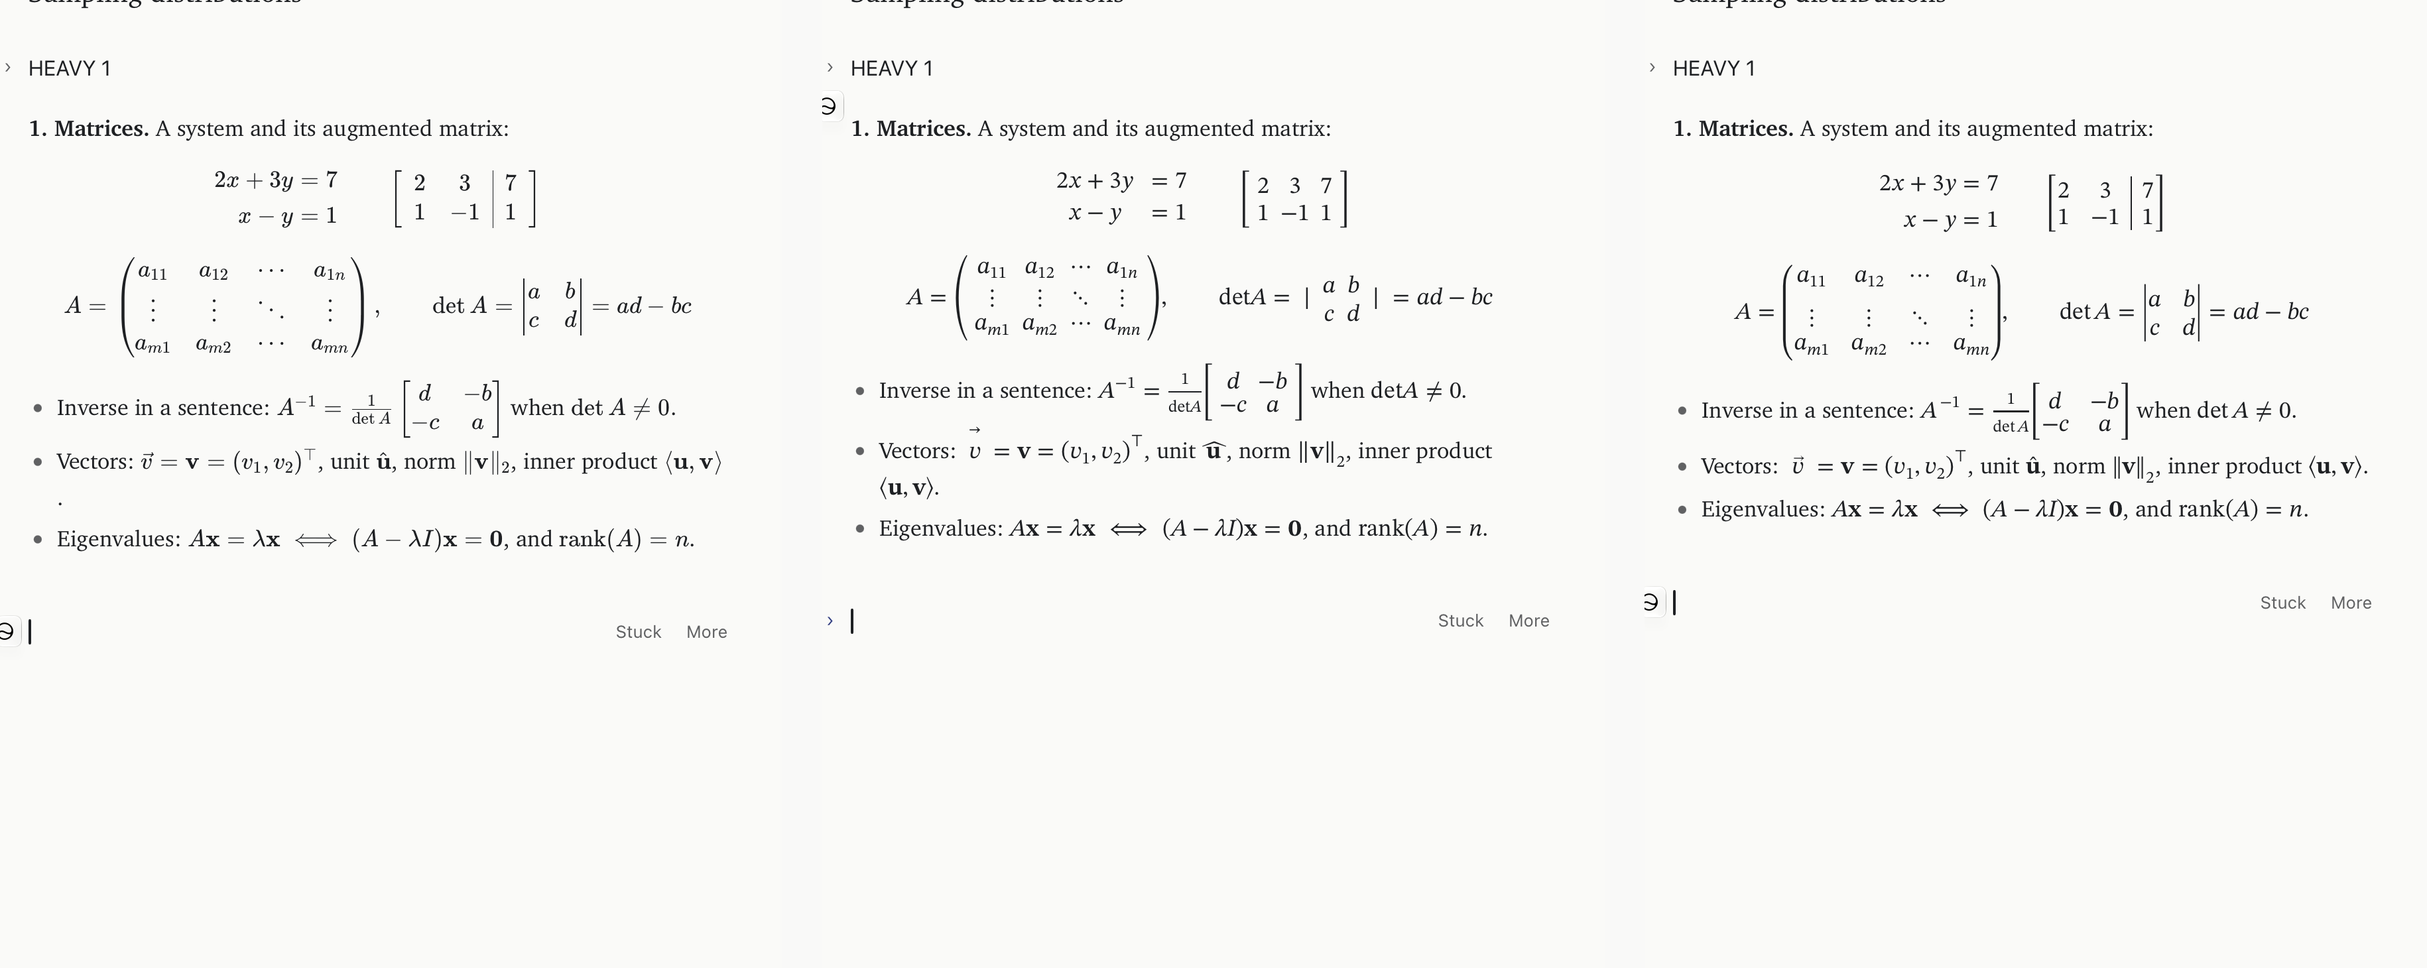
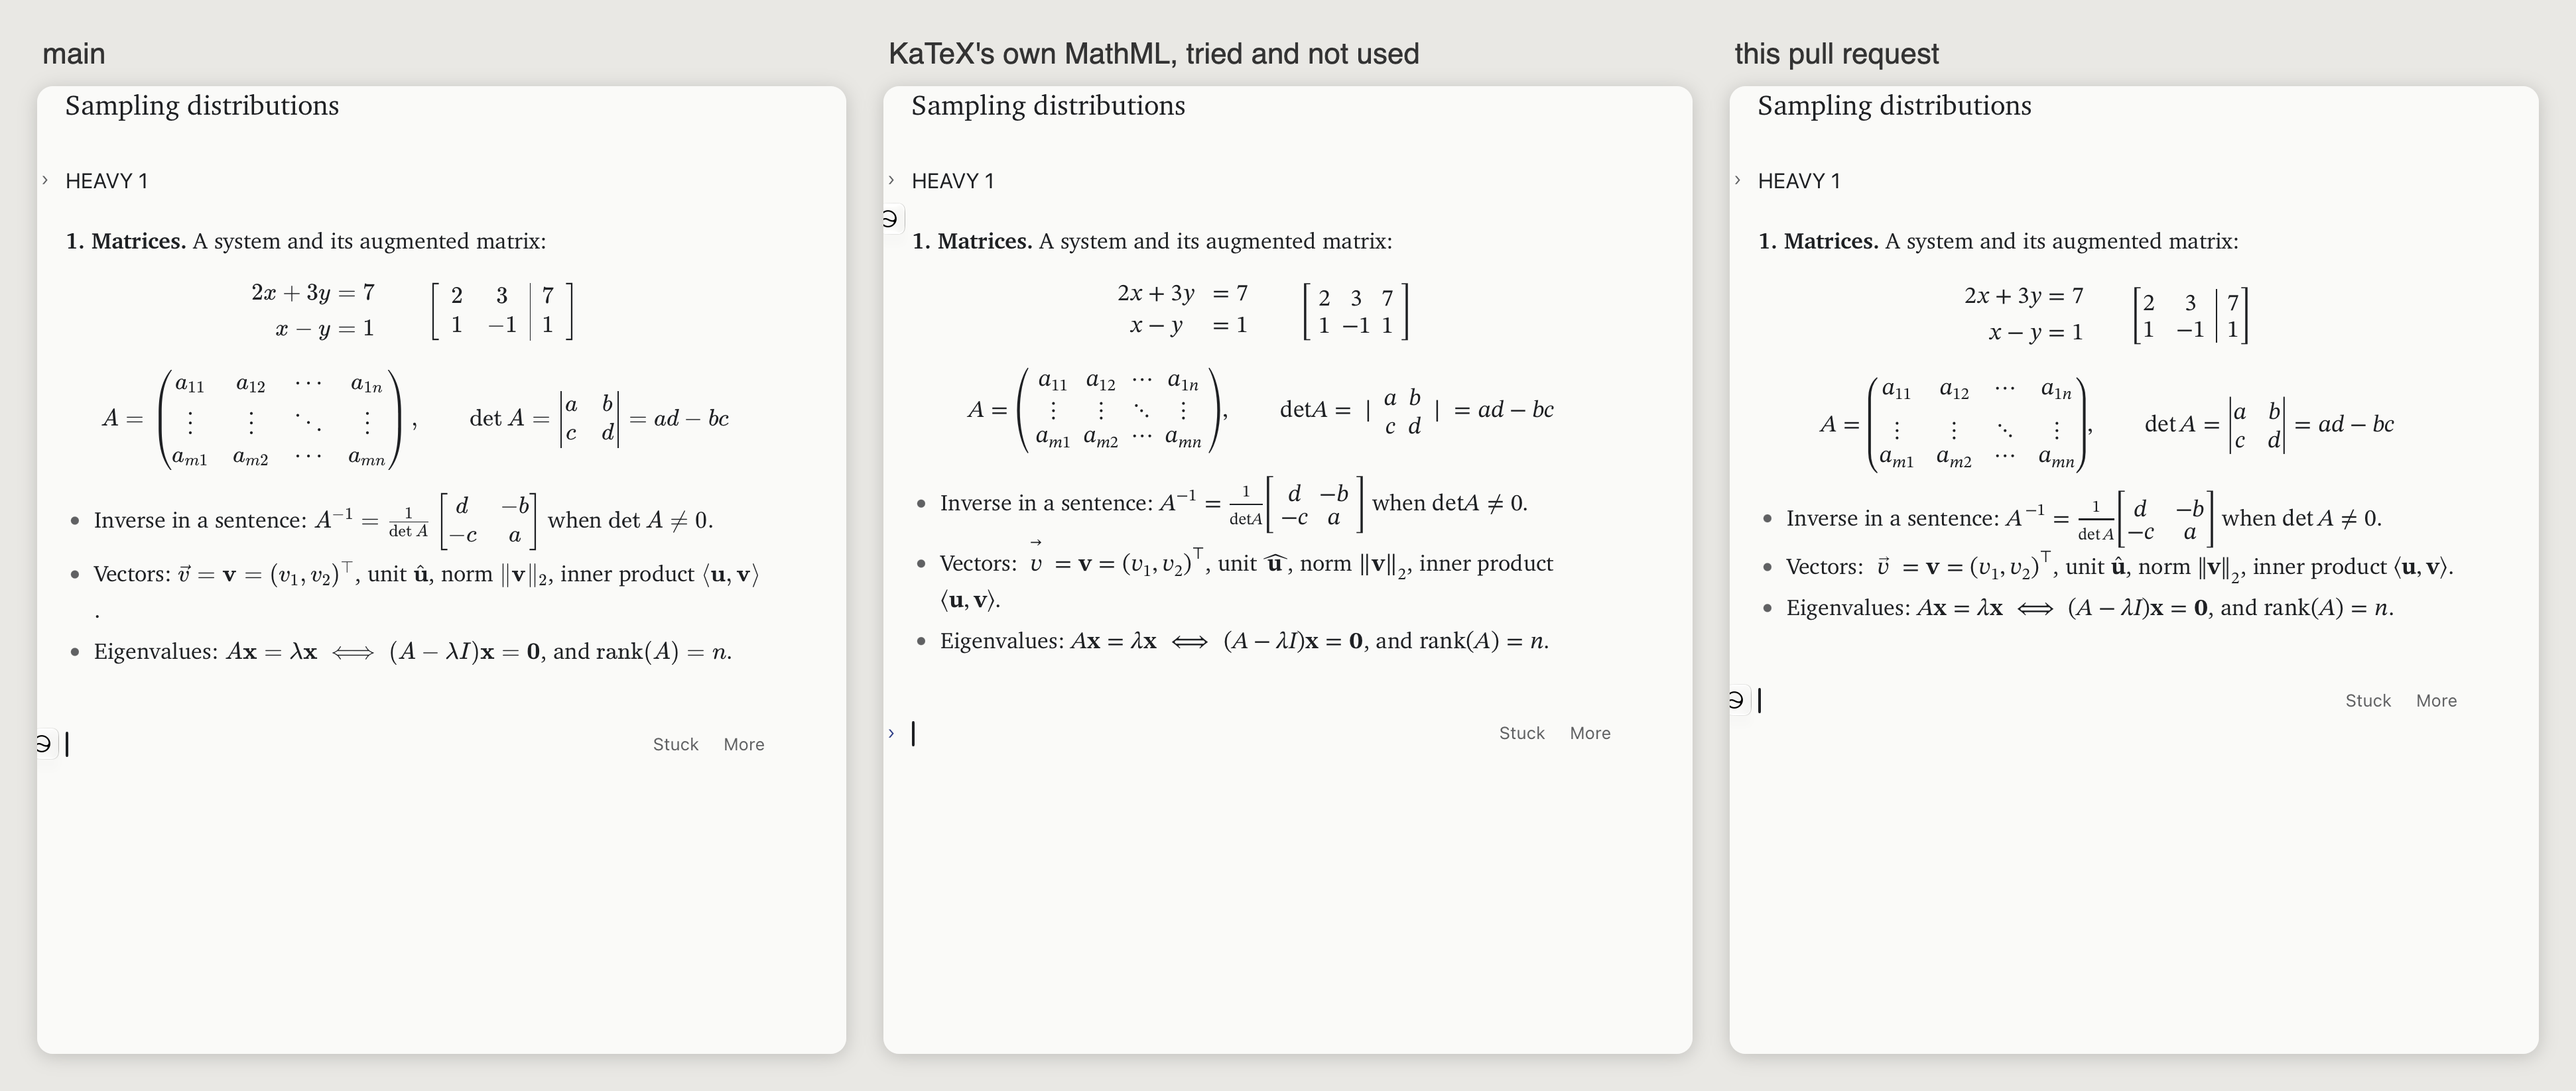
lighter-math: the six heavy replies and one statistics reply after the review's fixes

diff --git a/README.md b/README.md
@@ -32,4 +32,4 @@ Every image uses made-up data. If this branch is deleted, the images in those pu
 - `steady-page/spent-copy`: the copy of the task after "I don't know" whose reply moved on to a new task with no label, in the real window on a made-up course with a stand-in tutor that records its tasks: `before` (`4f12c69a`, the old task's copy looks current), `after` (drawn quieter until the learner acts) and `after-scroll` (the new task's copy).
 - `instant-selection/before`, `instant-selection/after`: the lesson with the plan open in the real window on a made-up course, on `main` and after the pull request that made selecting, the plan and Settings fast. They are pixel for pixel the same.
 - `instant-selection/second-pass/before`, `instant-selection/second-pass/after`: the lesson folded while an answer is typed (`answer-bare-typed`) and shown again with ⌘↑ (`answer-bare-looked-back`), in the real window on a made-up course, from that pull request before and after its second pass (folded replies skipped instead of removed). Each pair is pixel for pixel the same.
-- `lighter-math`: the tutor's mathematics in the real window on a made-up course with a stand-in tutor, from the pull request that draws it as MathML with Temml. `heavy-1` to `heavy-6` put the same six replies of heavier mathematics side by side: `main` (KaTeX) on the left, KaTeX's own MathML in the middle (tried and not used), Temml on the right. `reply-light` and `reply-dark`: an ordinary reply, `main` on the left and Temml on the right. `close-bar` and `close-vec`: close-ups of two marks Temml still draws differently, `main` above and Temml below.
+- `lighter-math`: the tutor's mathematics in the real window on a made-up course with a stand-in tutor, from the pull request that draws it as MathML with Temml. `heavy-1` to `heavy-6` put the same six replies of heavier mathematics side by side: `main` (KaTeX) on the left, KaTeX's own MathML in the middle (tried and not used), the pull request on the right, as it is after its review. `fixed-light` and `fixed-dark`: one made-up statistics reply on `main`, on the pull request before its review, and on the pull request after the review's fixes (line spacing, accents, a long formula in a sentence, an equation's number).
